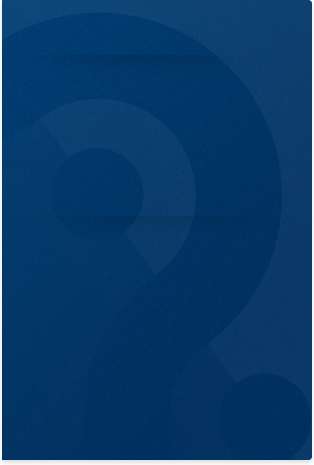
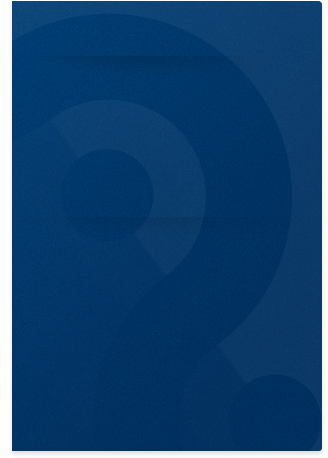
fs

Changed region(s): [[0.0, 0.0, 1.0, 1.0]]

diff --git a/css/global-blue.css b/css/global-blue.css
@@ -106,8 +106,11 @@ a:link, a:visited {
 .selvbetjening-block-forside {
     background-image: url("../images/selvbetjening-bg-BLUE.png");
     background-size: 100%;
-    height: 422px !important;
+    height: 411px !important;
     margin-top: 20px;
+    border-bottom-right-radius: 7px 10px;
+    -moz-border-radius-bottomright: 7px 10px;
+    -webkit-border-bottom-right-radius: 7px 10px;
 }
 
 .selvbetjening-block-forside a {

diff --git a/css/global-jobcenter.css b/css/global-jobcenter.css
@@ -29,3 +29,8 @@ body {background-image: url("../images/bg.png")}
 
 #main-menu li a {
     font-size: 16px;}
+    
+.panels-flexible-row-forside-1 {
+    height: 480px;
+    }
+.panels-flexible-row-last {padding-top: 3px}

diff --git a/css/global.css b/css/global.css
@@ -562,7 +562,6 @@ body {
 	}
 
 #zone-footer {
-	border-radius: 6px; 
 	background-image: url(../images/footer-bg.png); 
 	background-position: top left; 
 	background-repeat: repeat-x; 
